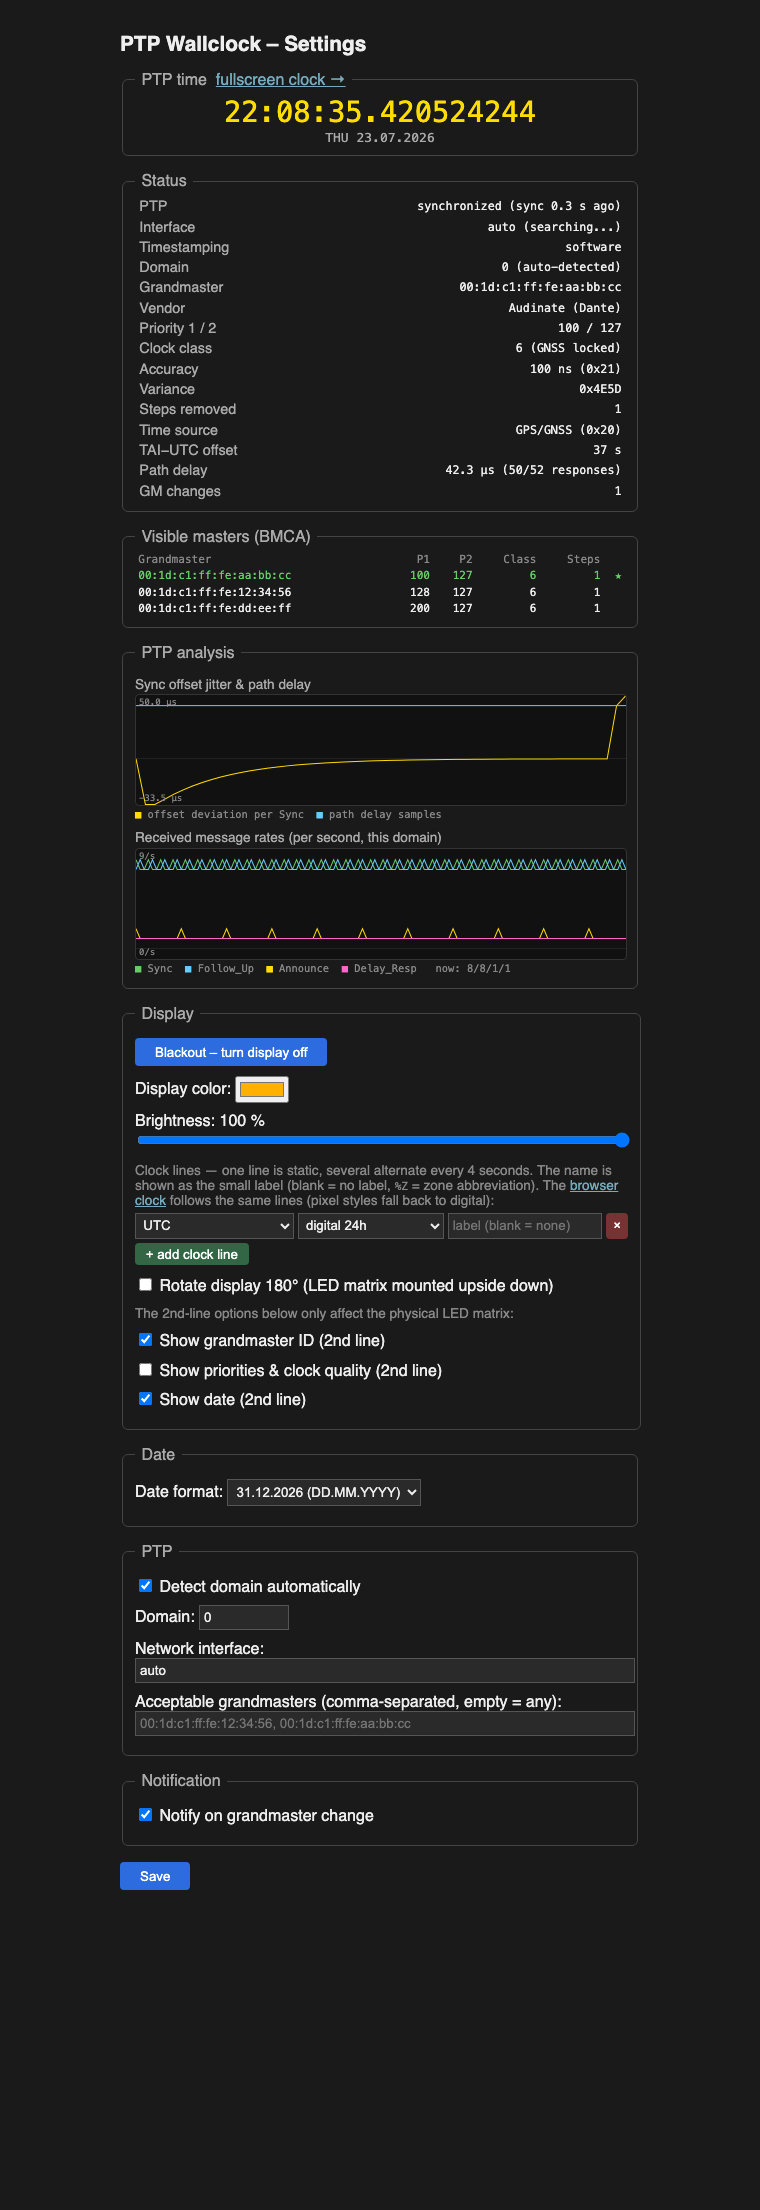
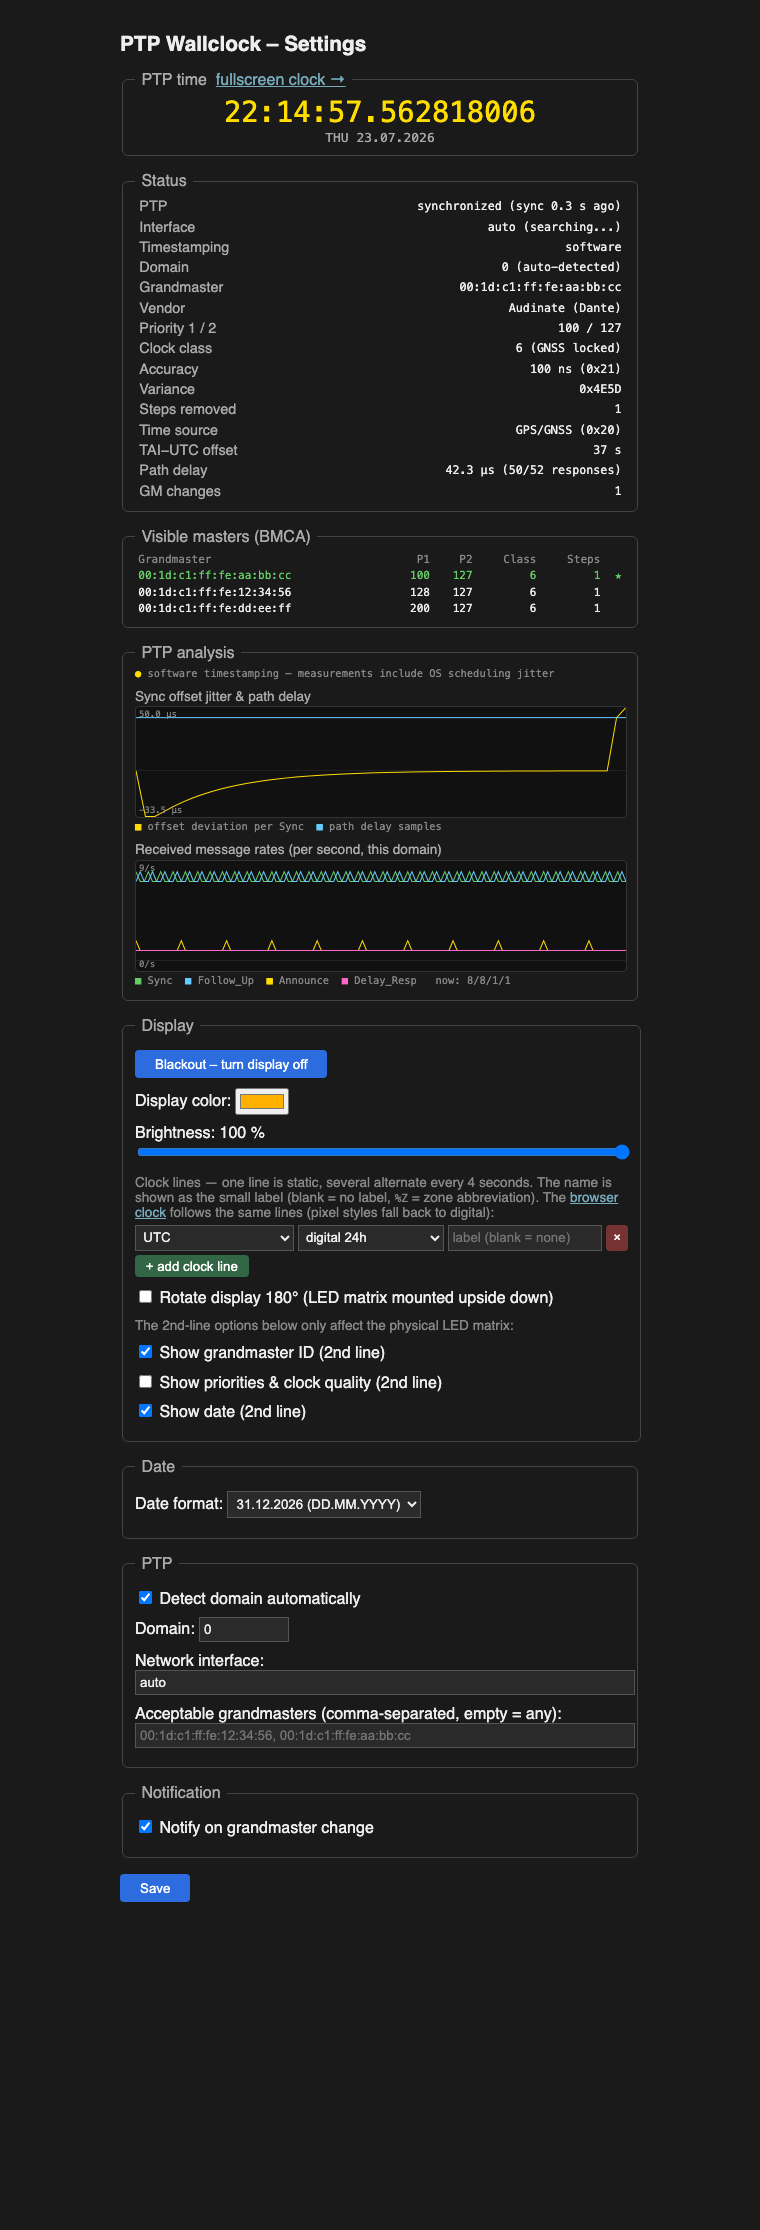
Show timestamping mode in the PTP analysis section; unbuffered logs
The analysis charts now state what produced the data: green dot =
hardware timestamping (with interface and PHC device), amber dot =
software timestamps including OS scheduling jitter.

Also flush stdout per line: under systemd the startup messages were
block-buffered and only reached journald when the service stopped.

diff --git a/ptp-clock.cpp b/ptp-clock.cpp
@@ -1510,6 +1510,7 @@ static const char *kIndexHtml = R"HTML(<!DOCTYPE html>
 
 <fieldset>
 <legend>PTP analysis</legend>
+<div class="chart-legend" id="ts_mode" style="margin:0 0 0.5em">&ndash;</div>
 <div class="chart-title">Sync offset jitter &amp; path delay</div>
 <canvas class="chart" id="ch_off"></canvas>
 <div class="chart-legend"><span style="color:#fd0">&#9632;</span> offset
@@ -1933,6 +1934,12 @@ async function poll() {
                           : 'auto (searching...)')
         : s.iface + (s.iface_up ? '' : ' (not connected)'));
     set('s_hwts', s.hwts ? 'hardware (' + s.hwts_desc + ')' : 'software');
+    document.getElementById('ts_mode').innerHTML = s.hwts
+        ? '<span style="color:#6c6">&#9679;</span> hardware timestamping ('
+          + s.hwts_desc + ') &mdash; t2/t3 stamped by the NIC, clock reads '
+          + 'the PHC'
+        : '<span style="color:#fd0">&#9679;</span> software timestamping '
+          + '&mdash; measurements include OS scheduling jitter';
     set('s_domain', s.domain === -1
         ? (s.active_domain >= 0
            ? s.active_domain + ' (auto-detected)'
@@ -2427,6 +2434,9 @@ static void http_server_thread(int port) {
 
 int main(int argc, char **argv) {
     (void)argc; (void)argv;
+    // Under systemd stdout is a block-buffered pipe — without this the
+    // startup messages only reach journald when the process exits
+    std::cout << std::unitbuf;
     resolve_config_path();
     // Container/first-run convenience: PTP_WALLCLOCK_IFACE sets the default
     // interface; a saved setting from the web UI still wins.